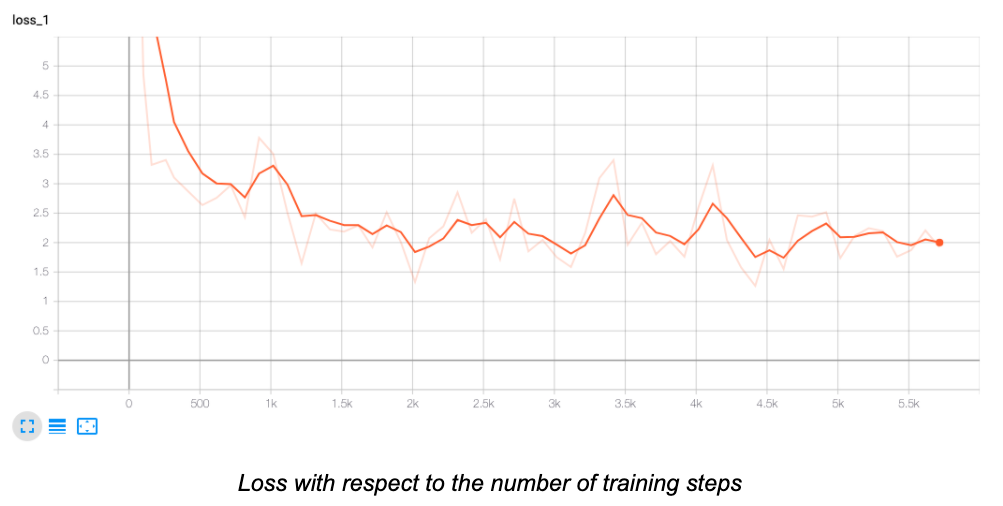
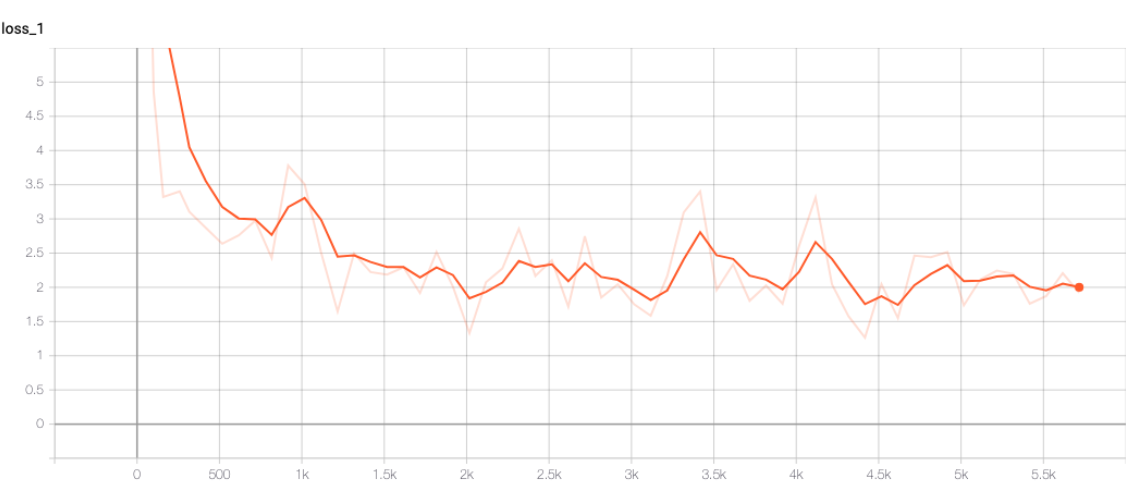
update README

diff --git a/README.md b/README.md
@@ -12,6 +12,9 @@ Demo image:
 
 ![alt text](https://github.com/trungnguyencs/Exit-Sign-Detector/blob/master/git_img/demo.png)
 
+
+Training loss plot with respect to the number of training steps:
+
 ![alt text](https://github.com/trungnguyencs/Exit-Sign-Detector/blob/master/git_img/loss.png)
 
 # Directory
